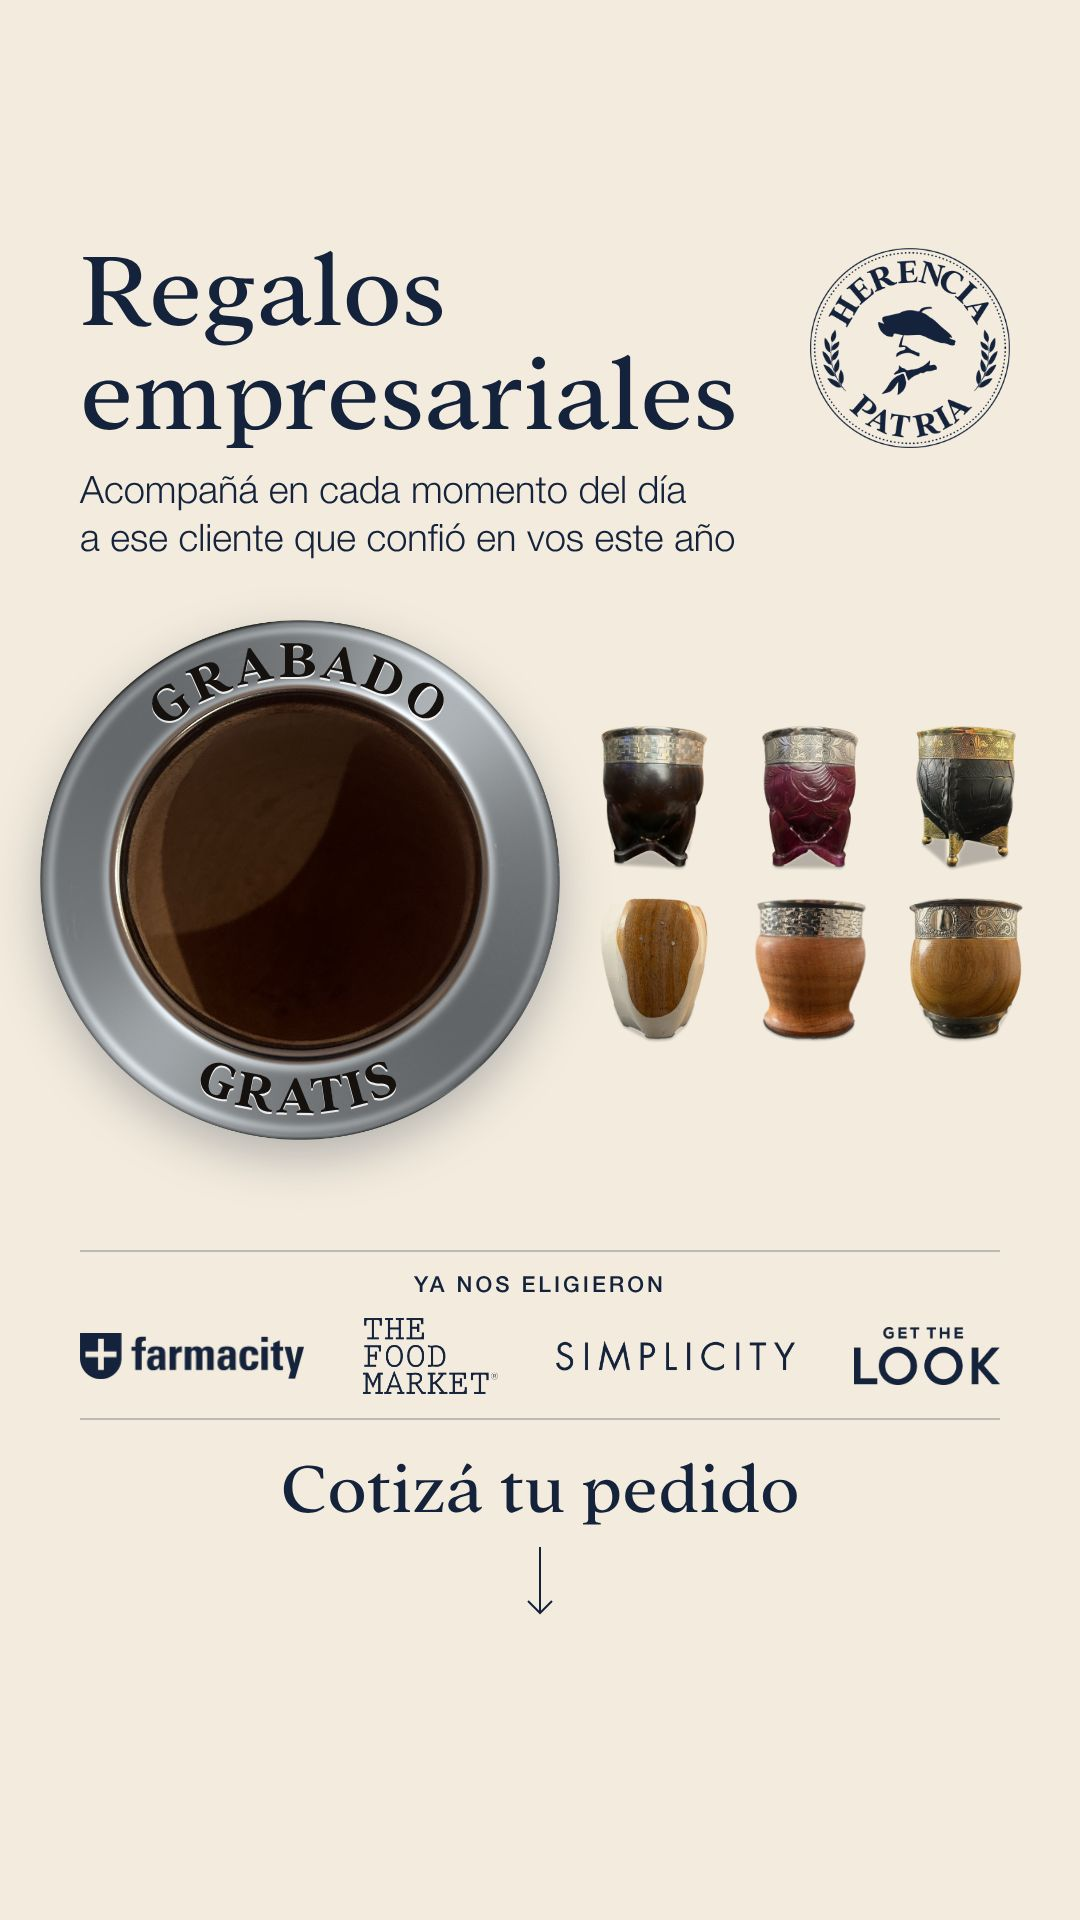
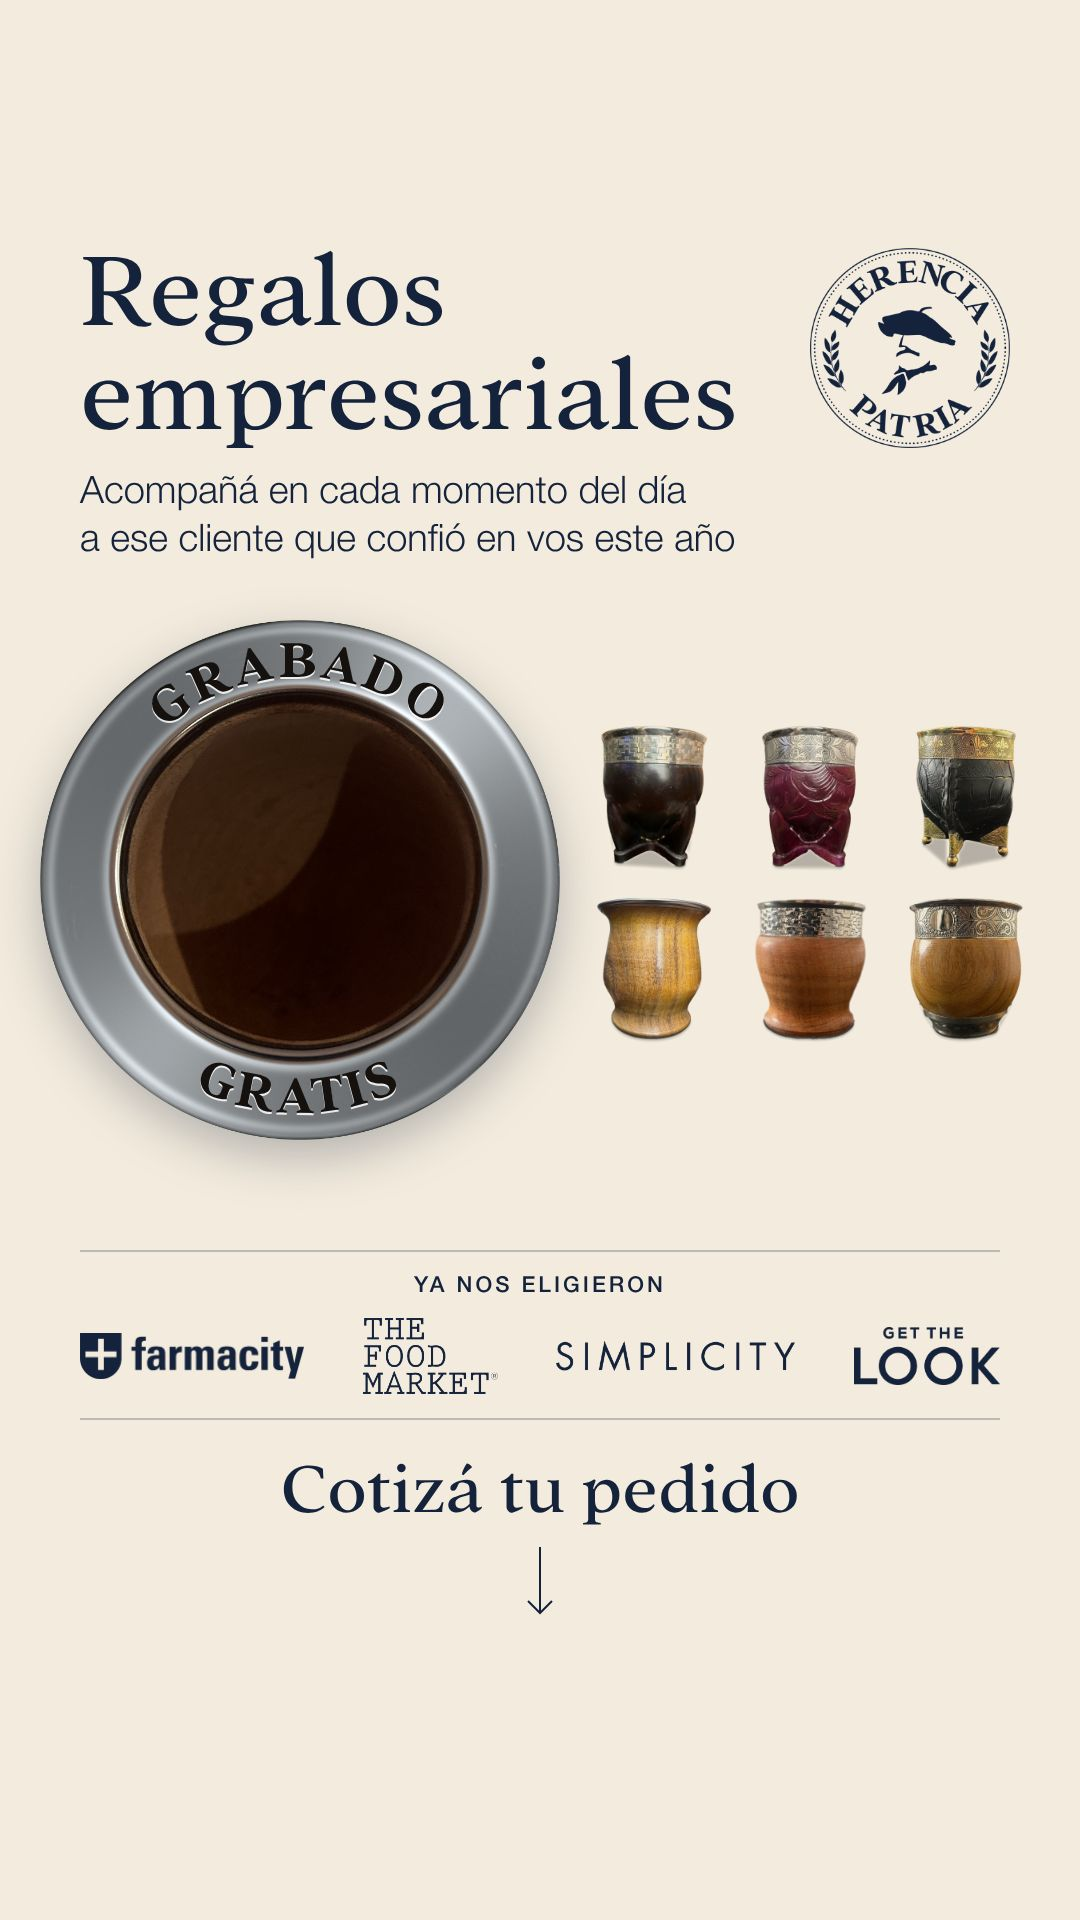
Historia empresarial B: foto nueva del ranchero de algarrobo
Claude-Session: https://claude.ai/code/session_012H3xPSmbqKoMmc2aK7okNH

Changed region(s): [[0.55, 0.4688, 0.6722, 0.5625]]

diff --git a/src/Root.tsx b/src/Root.tsx
@@ -443,7 +443,7 @@ export const RemotionRoot: React.FC = () => {
             "producto/mate-calabaza-simple.jpg",
             "producto/mate-calabaza-repujado.jpg",
             "producto/mate-negro-dorado-flor-de-lis.jpg",
-            "producto/mate-madera-pintado-blanco.jpg",
+            "producto/mate-algarrobo-ranchero.jpg",
             "producto/mate-algarrobo-imperial.jpg",
             "producto/mate-algarrobo-blanco.jpg",
           ],
